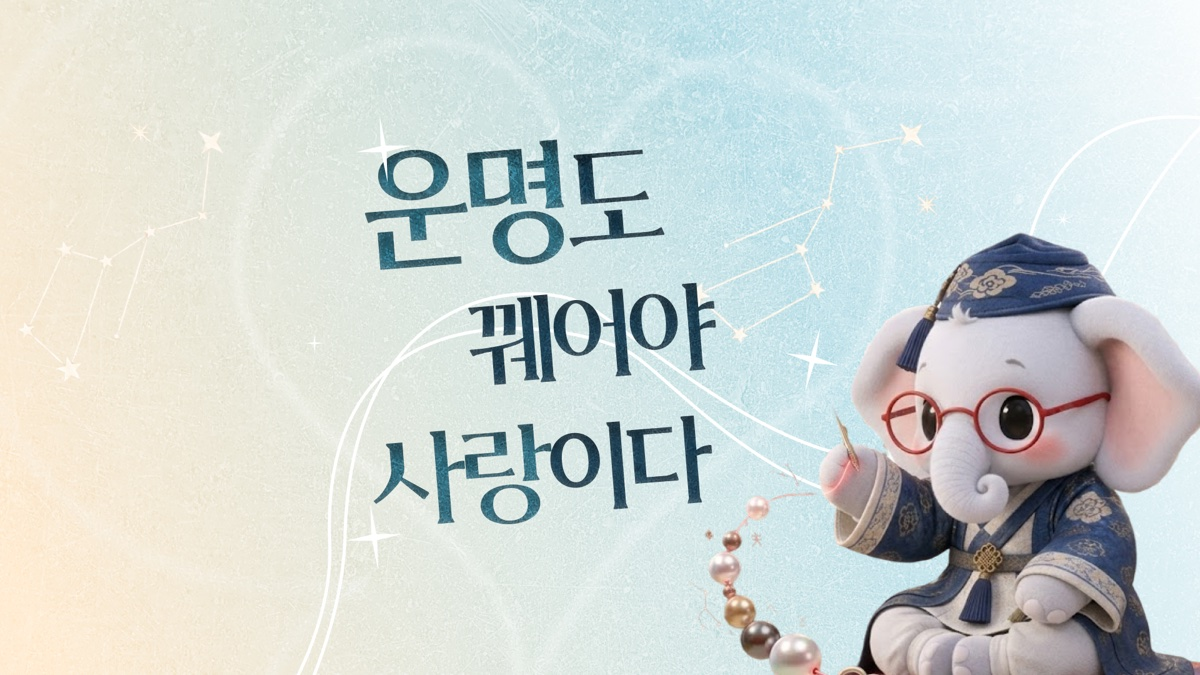
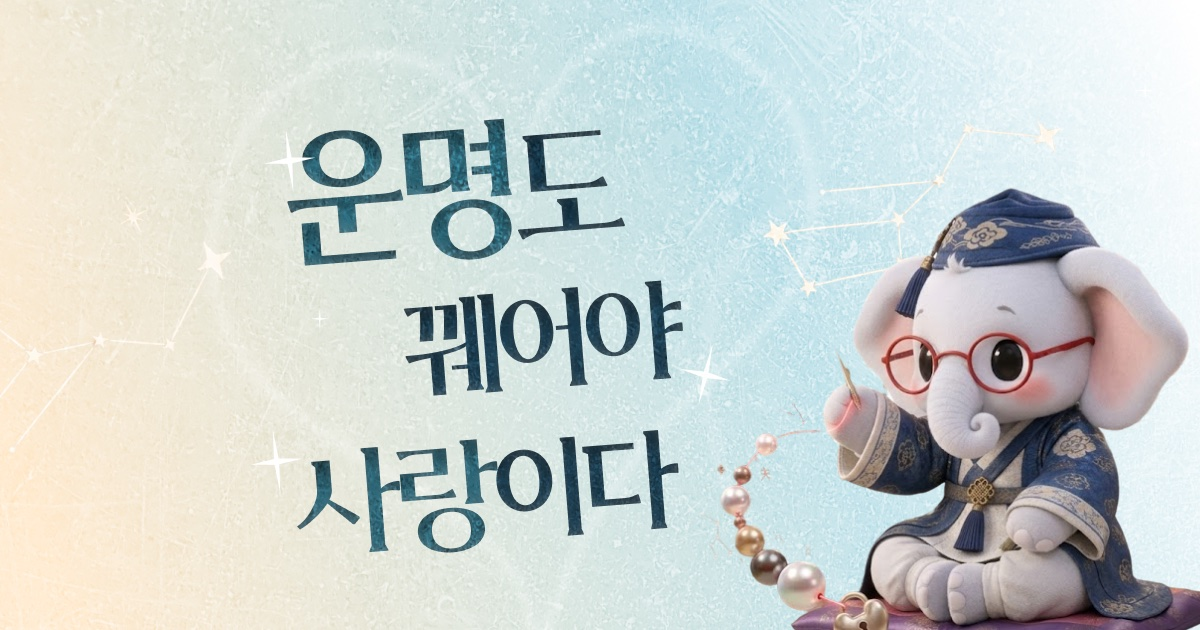
feat(html): swap share preview image
Agent: claude-code
Stream: chore-og-image-swap

diff --git a/index.html b/index.html
@@ -15,7 +15,7 @@
     <meta property="og:locale" content="ko_KR" />
     <meta property="og:image" content="https://threadoffate.site/og/og.jpg" />
     <meta property="og:image:width" content="1200" />
-    <meta property="og:image:height" content="675" />
+    <meta property="og:image:height" content="630" />
     <meta property="og:image:alt" content="운명도 꿰어야 사랑이다" />
     <meta name="twitter:card" content="summary_large_image" />
     <meta name="twitter:title" content="운명도 꿰어야 사랑이다" />
